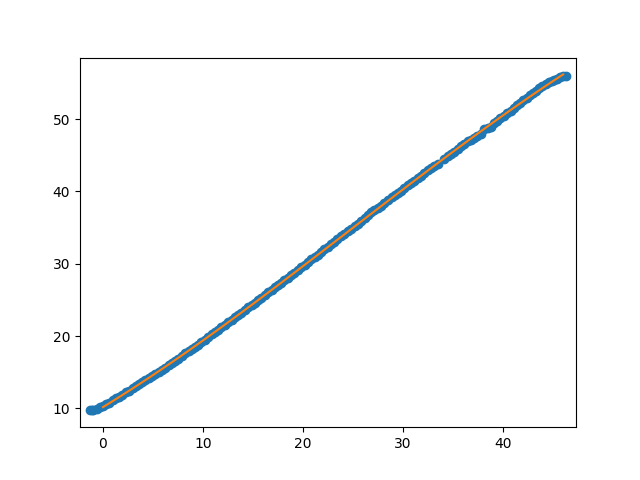
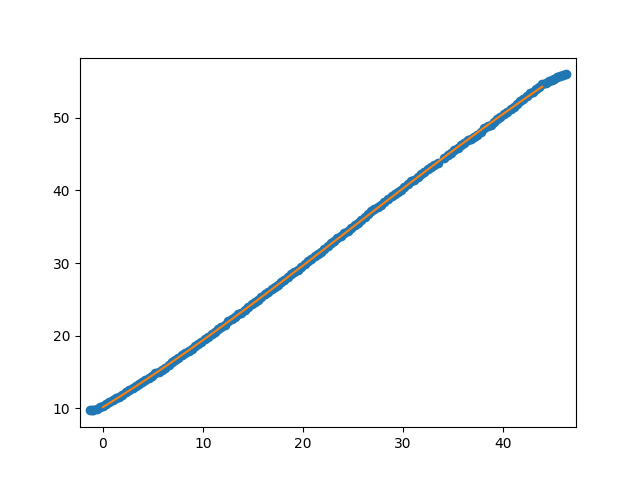
update

diff --git a/derailleurs/Microshift RD-M6205AM/default.htm b/derailleurs/Microshift RD-M6205AM/default.htm
@@ -25,15 +25,15 @@ Microshift Advent X 10-Speed
   </tr>
   <tr>
     <th>Curve Coefficients</th>
-    <td>10.18, 0.845, 0.00887, -0.000120</td>
+    <td>10.24, 0.861, 0.00741, -0.000092</td>
   </tr>
   <tr>
     <th>Physical Low Limit</th>
-    <td>10.18</td>
+    <td>10.24</td>
   </tr>
   <tr>
     <th>Physical High Limit</th>
-    <td>56.46</td>
+    <td>56.75</td>
   </tr>
   <tr>
     <th>Pull Ratio Averaged Across Pulling Runs</th>
@@ -41,15 +41,15 @@ Microshift Advent X 10-Speed
   </tr>
   <tr>
     <th>Pull Ratio Averaged Across Relaxing Runs</th>
-    <td>nan +/- nan</td>
+    <td>1.022 +/- 0.000</td>
   </tr>
   <tr>
     <th>Pull Ratio Averaged Across All Runs</th>
-    <td>1.030 +/- 0.000</td>
+    <td>1.026 +/- 0.008</td>
   </tr>
   <tr>
     <th>Pull Ratio 95% Confidence Interval</th>
-    <td>1.030 to 1.030</td>
+    <td>1.018 to 1.033</td>
   </tr>
   
   
@@ -65,6 +65,16 @@ Microshift Advent X 10-Speed
 </section>
 
 <h1>Runs</h1>
+
+
+<section>
+<h2>2025-01-22 19-48 PM Relaxing</h2>
+<a href="pullratio/2025-01-22 19-48 PM Relaxing.csv">Raw Measurement Data</a>
+<figure>
+<img src="pullratio/2025-01-22 19-48 PM Relaxing.png"/>
+<figcaption>Data and best fit line, excluding points taken at limits</figcaption>
+</figure>
+</section>
 
 
 <section>
